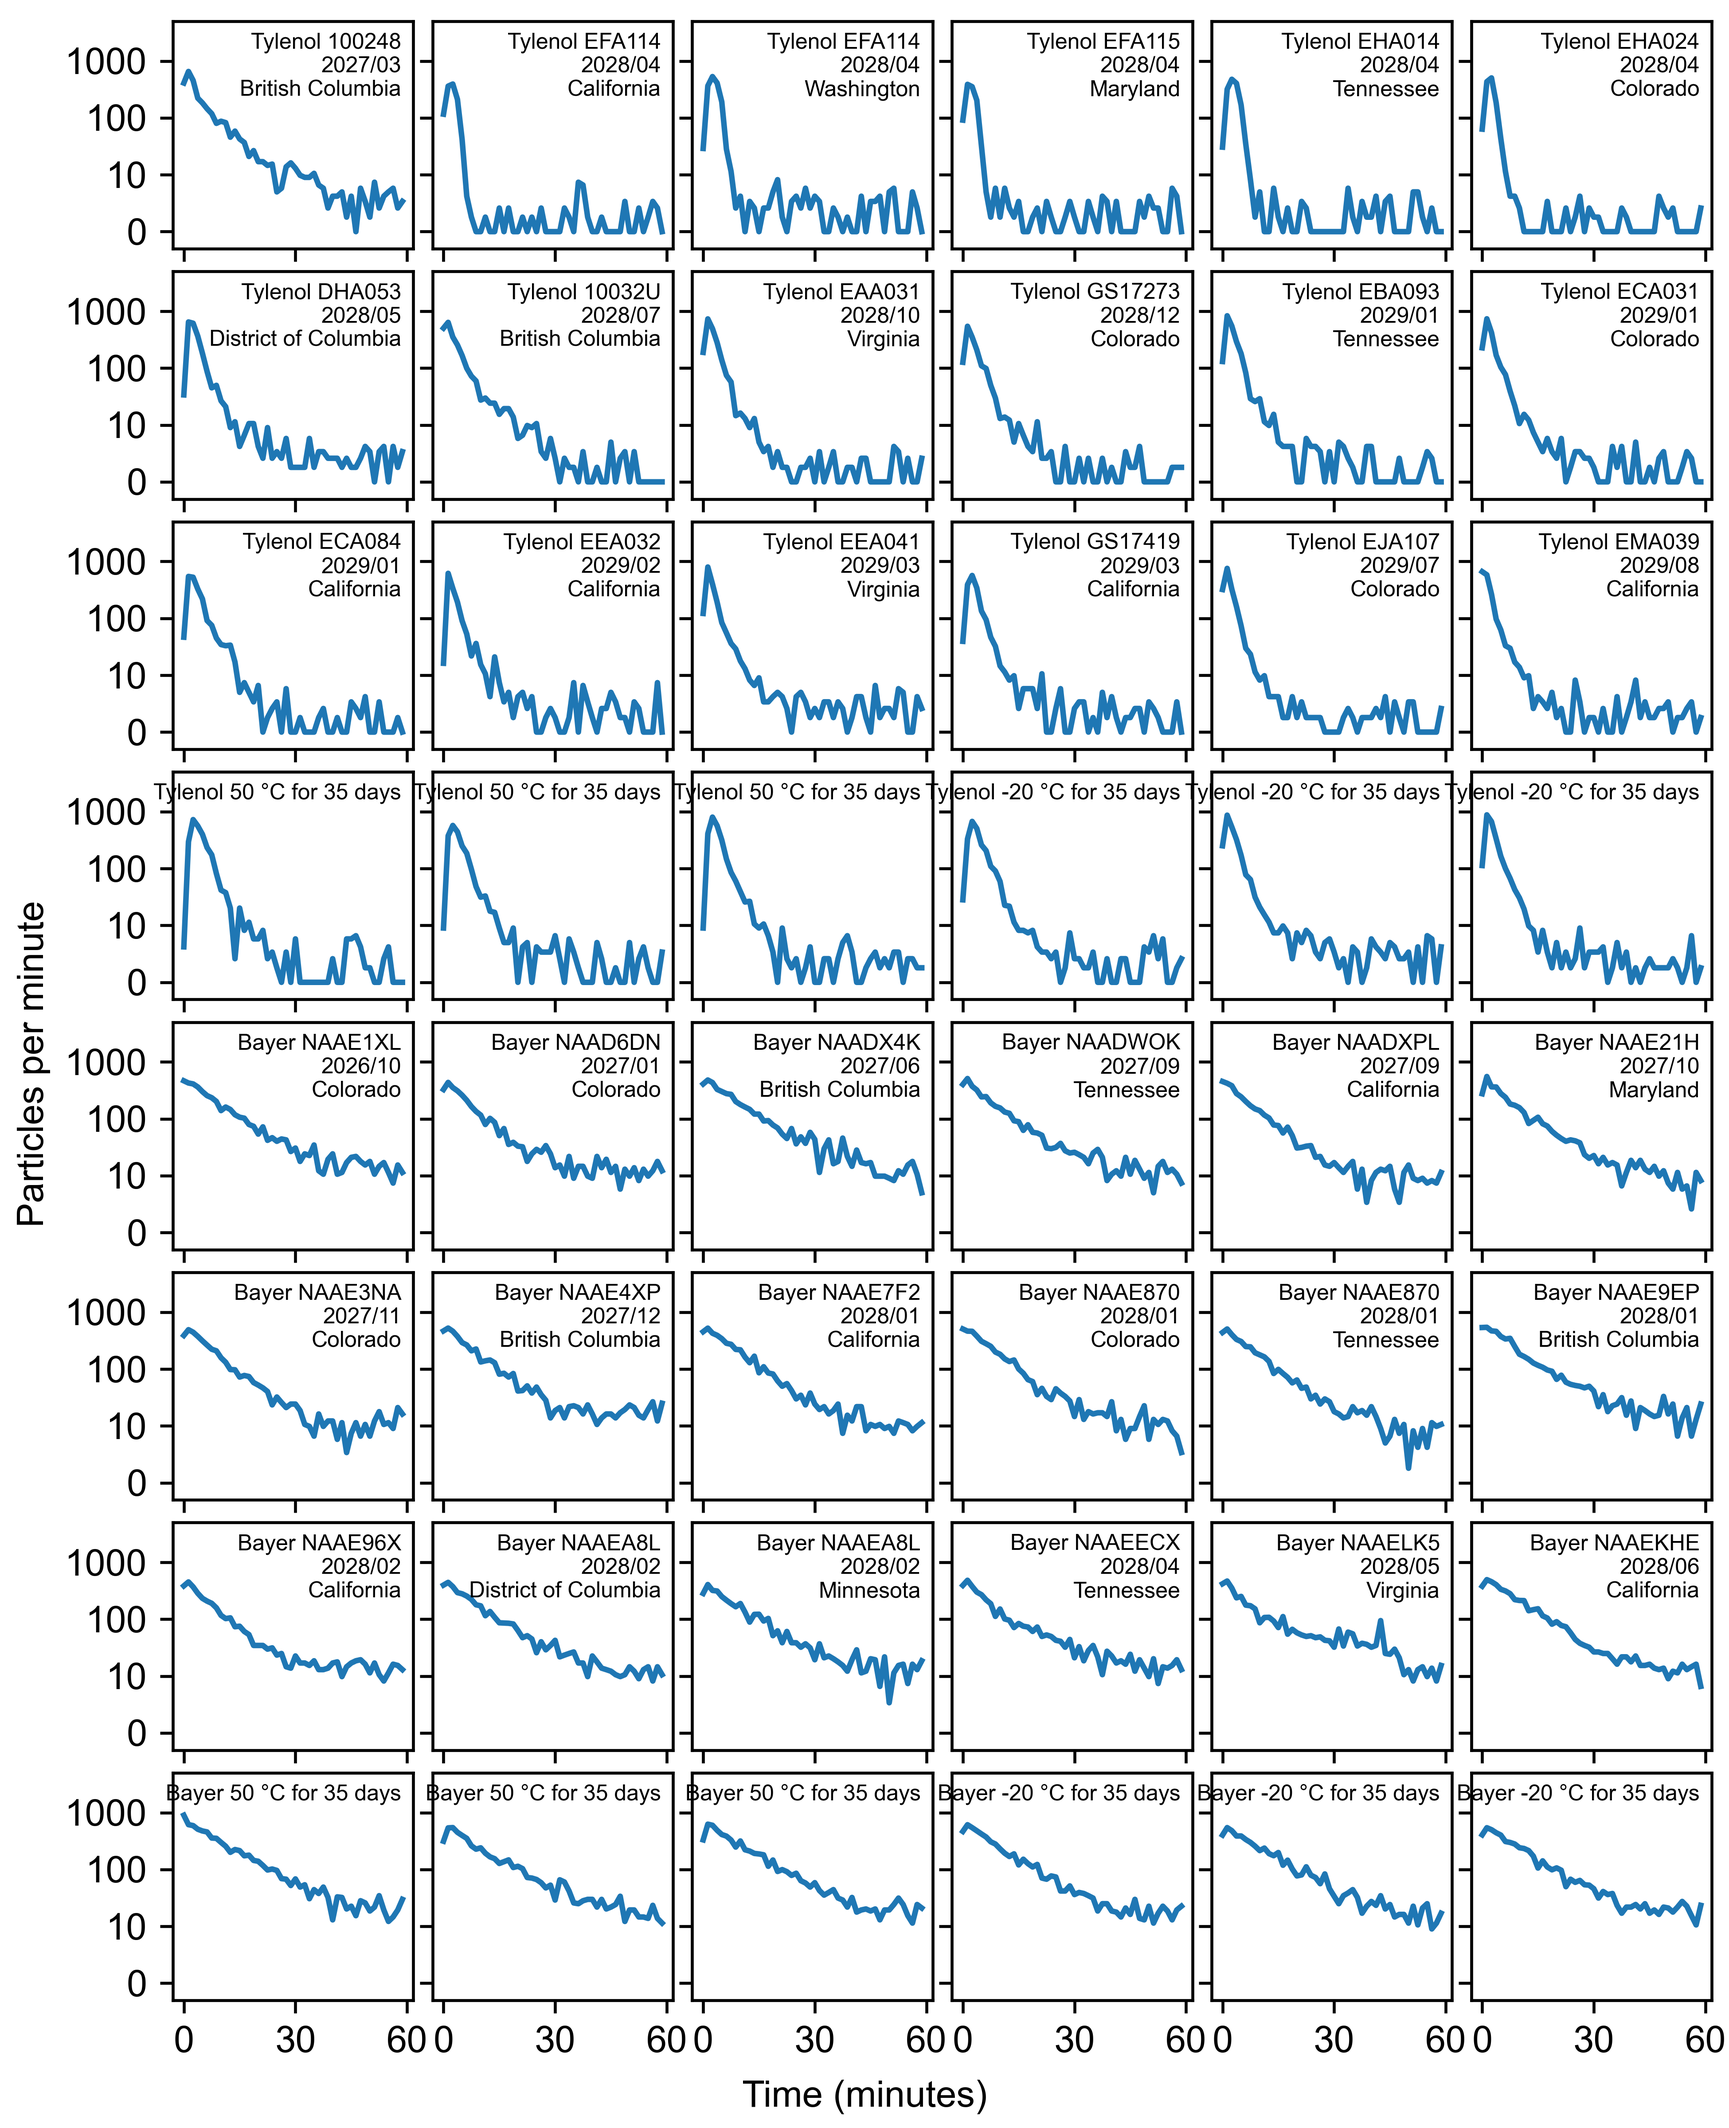
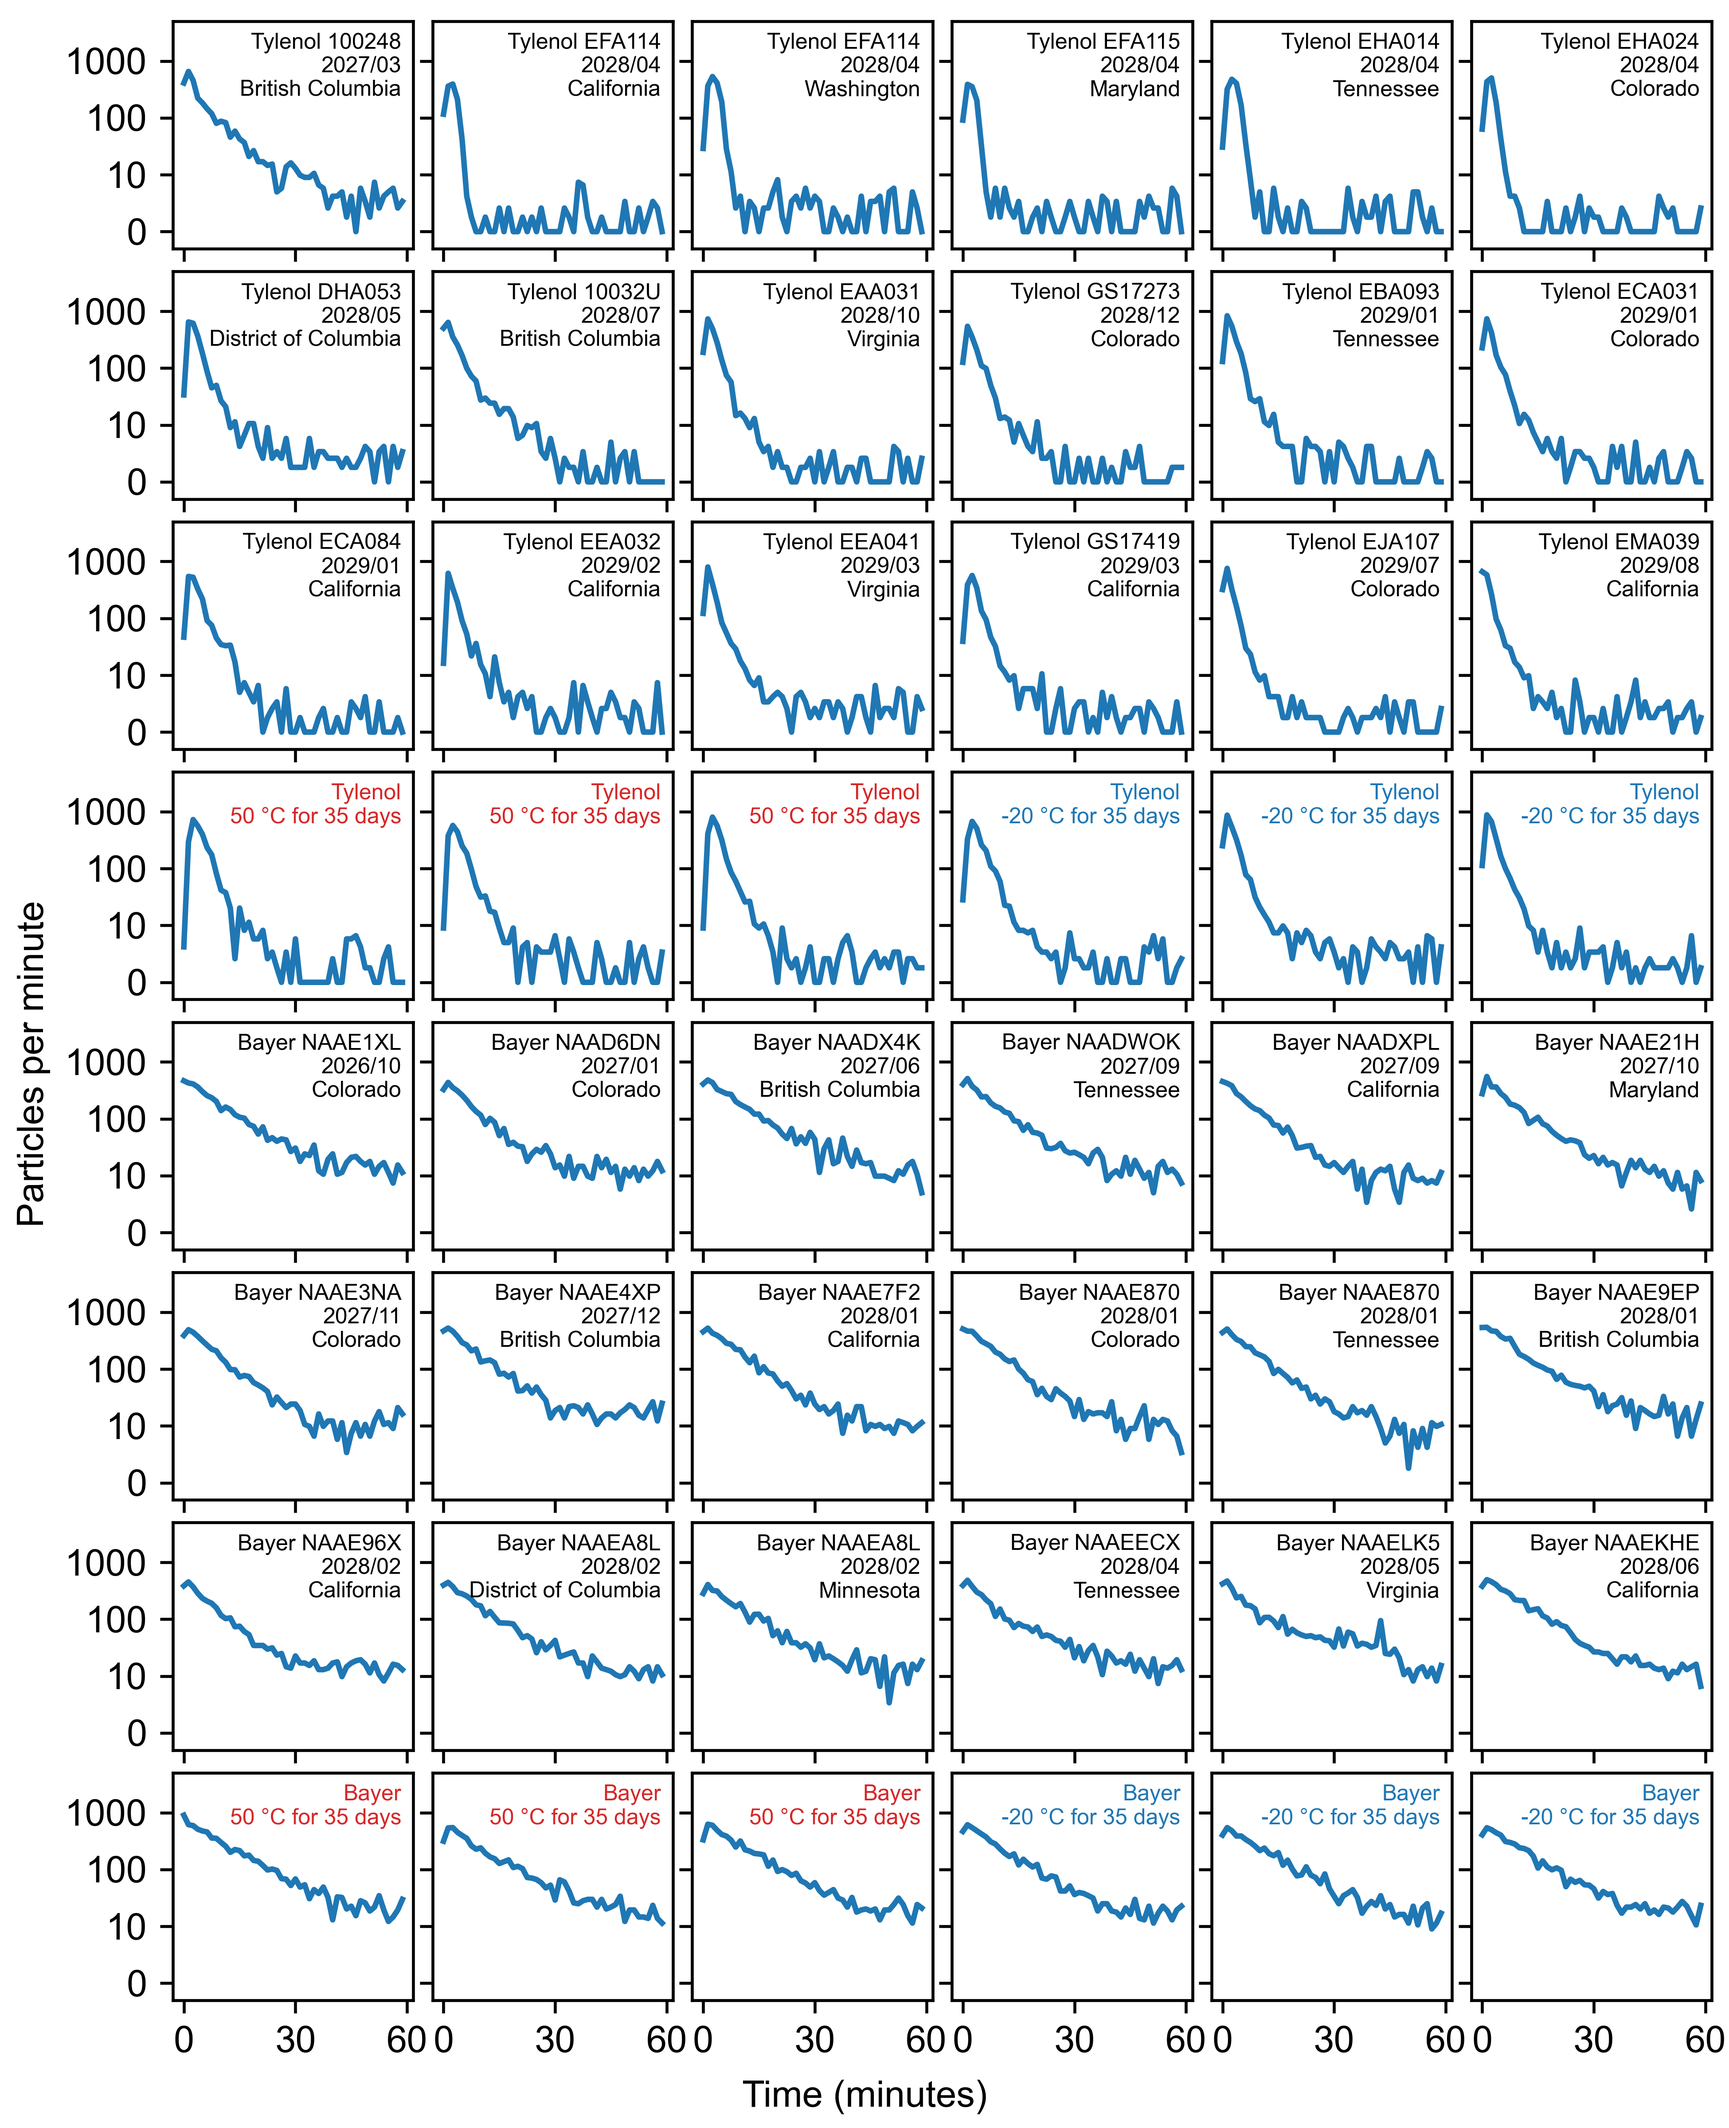
bigplot work

diff --git a/df-analyze.py b/df-analyze.py
@@ -599,12 +599,12 @@ if args.figure == "bayer_tylenol_only_subdirs":
     '116': 'Tylenol GS17419\n2029/03\nCalifornia',
     '117': 'Tylenol EJA107\n2029/07\nColorado',
     '118': 'Tylenol EMA039\n2029/08\nCalifornia',
-    '150': 'Tylenol 50 °C for 35 days',
-    '151': 'Tylenol 50 °C for 35 days',
-    '152': 'Tylenol 50 °C for 35 days',
-    '153': 'Tylenol -20 °C for 35 days',
-    '154': 'Tylenol -20 °C for 35 days',
-    '155': 'Tylenol -20 °C for 35 days',
+    '150': 'Tylenol\n50 °C for 35 days',
+    '151': 'Tylenol\n50 °C for 35 days',
+    '152': 'Tylenol\n50 °C for 35 days',
+    '153': 'Tylenol\n-20 °C for 35 days',
+    '154': 'Tylenol\n-20 °C for 35 days',
+    '155': 'Tylenol\n-20 °C for 35 days',
     '501': 'Bayer NAAE1XL\n2026/10\nColorado',
     '502': 'Bayer NAAD6DN\n2027/01\nColorado',
     '503': 'Bayer NAADX4K\n2027/06\nBritish Columbia',
@@ -623,21 +623,28 @@ if args.figure == "bayer_tylenol_only_subdirs":
     '517': 'Bayer NAAEECX\n2028/04\nTennessee',
     '518': 'Bayer NAAELK5\n2028/05\nVirginia',
     '519': 'Bayer NAAEKHE\n2028/06\nCalifornia',
-    '550': 'Bayer 50 °C for 35 days',
-    '551': 'Bayer 50 °C for 35 days',
-    '552': 'Bayer 50 °C for 35 days',
-    '553': 'Bayer -20 °C for 35 days',
-    '554': 'Bayer -20 °C for 35 days',
-    '555': 'Bayer -20 °C for 35 days',
+    '550': 'Bayer\n50 °C for 35 days',
+    '551': 'Bayer\n50 °C for 35 days',
+    '552': 'Bayer\n50 °C for 35 days',
+    '553': 'Bayer\n-20 °C for 35 days',
+    '554': 'Bayer\n-20 °C for 35 days',
+    '555': 'Bayer\n-20 °C for 35 days',
     }
     collage_fig, collage_axs = plt.subplots(8, 6, sharex=True, sharey=True, figsize=(6.5, 8))
     for filename, sample, peak_times, peak_counts in zip(summary_filenames, summary_samples, summary_peak_times, summary_peak_counts):
         plot_number = plot_numbers[filename.split(" ")[0][-3:]]
         label = bayer_tylenol_data[filename.split(" ")[0][-3:]]
+        if "-20 °C" in label:
+            text_color = "tab:blue"
+        elif "50 °C" in label:
+            text_color = "tab:red"
+        else:
+            text_color = "black"
         collage_axs.flat[plot_number].text(
             0.95,
             0.95,
             label,
+            color=text_color,
             size=6,
             horizontalalignment="right",
             verticalalignment="top",
